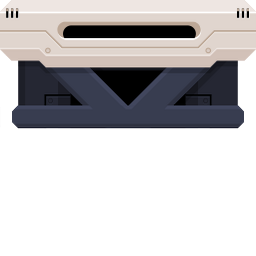
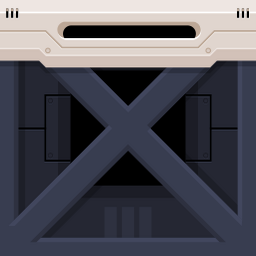
Cleaned up code and added new images to the game!

diff --git a/js/Other/NSG.js b/js/Other/NSG.js
@@ -6,7 +6,7 @@
 var GAMEHEIGHT = 600;
 var GAMEWIDTH = 900;
 var backgroundMusic;
-var level;
+var level = 1;
 var timer;
 
 // Phaser draw groups
@@ -16,6 +16,7 @@ var lightLayer;
 var stairLayer;
 var foreground;
 var exitLayer;
+var TILEBACKGROUND;
 
 // Tile Info
 var TileSizeX;
@@ -66,10 +67,12 @@ function preload() {
     game.load.atlasXML('player', ASSETPATH + 'Player/playerSpriteSheet.png', ASSETPATH + 'Player/playerSpriteSheet.xml');
     game.load.image('enemy', ASSETPATH + 'TestImages/enemy.png');
     // Images
-    game.load.image('floor', ASSETPATH + 'TestImages/floor.png');
+    game.load.image('background', ASSETPATH + 'Background/BGTile.png');
+    game.load.image('floor', ASSETPATH + 'Background/Floor.png');
     game.load.image('light', ASSETPATH + 'TestImages/light.png');
-    game.load.image('stairs', ASSETPATH + 'TestImages/stairs.png');
-    game.load.image('exit', ASSETPATH + 'TestImages/exit.png');
+    game.load.image('stairs', ASSETPATH + 'Background/Ladder.png');
+    game.load.image('exit', ASSETPATH + 'Background/Door.png');
+    game.load.image('intel', ASSETPATH + 'Background/Intel.png');
     // Buttons
     game.load.image('leftArrow', ASSETPATH + 'Buttons/ArrowLeft.png');
     game.load.image('rightArrow', ASSETPATH + 'Buttons/ArrowRight.png');
@@ -89,6 +92,16 @@ function preload() {
         game.load.text('level' + i, 'assets/levels/lvl' + i + '.txt')
     }
     game.load.text('AITree', TREEPATH + 'aiTree.json');
+    // Init Groups
+    TILEBACKGROUND = game.add.group();
+    background = game.add.group();
+    wallLayer = game.add.group();
+    lightLayer = game.add.group();
+    stairLayer = game.add.group();
+    exitLayer = game.add.group();
+    foreground = game.add.group();
+    // Used for FPS counter
+    game.time.advancedTiming = true;
 } //preload();
 
 function create() {
@@ -96,8 +109,12 @@ function create() {
     switch(gameState)
     {
         case gameStates.MENU:
-            game.time.advancedTiming = true; // Used for FPS counter
-            background = game.add.group();
+            // Load game background!
+            var text = prepLevel();
+
+            TileSizeY = Math.round(GAMEHEIGHT/text.length);
+            TileSizeX = Math.round(GAMEWIDTH/(text[0].length));
+            loadLevel(text); // Will only load the background!
 
             buttons.push(new button("PLAY"));
             buttons.push(new button("HIGHSCORE"));
@@ -112,31 +129,17 @@ function create() {
             game.physics.arcade.gravity.y = 350;
             timer = game.time.create(false);
 
-            level = 2; // Reset level for every create!
-            var text = game.cache.getText('level' + level).split('\n'); // Stores it as an array
-            for(i = 0; i < text.length; i++) {
-                text[i] = text[i].replace(/\n|\r/g, ""); // Cleans up Line breaks
-            }
-
-            TileSizeY = Math.round(GAMEHEIGHT/text.length);
-            TileSizeX = Math.round(GAMEWIDTH/(text[0].length));
-
-            wallLayer = game.add.group();
-            lightLayer = game.add.group();
-            stairLayer = game.add.group();
-            exitLayer = game.add.group();
-            foreground = game.add.group();
-
             playerDied = new Signal();
-
             newLevel = new Signal();
-            newLevel.addSignal(nextLevel)
-
             getIntel = new Signal();
+
+            newLevel.addSignal(nextLevel)
             getIntel.addSignal (function() {
                 exit = new Exit(player.origX, player.origY);
             })
 
+            level = 1; // Reset level for every create!
+            var text = prepLevel();
             loadLevel(text);
 
             backgroundMusic = new sound('background1'); // Background music, open to update
@@ -186,56 +189,65 @@ function loadLevel(text) {
             // Initialise based on character in txt file
             var x = (j*TileSizeX); // X based on position in txt file
             var y = (i*TileSizeY); // Y based on position in txt file
-            switch (text[i].charAt(j)) {
-                // Optimise the below: Maybe merge into a function (Reads file and returns x&y position)
-                case "P":
-                    player = new Player(x, y);
-                    break;
-
-                case "G":
-                    enemies.push(new Enemy((j*TileSizeX), (i*TileSizeY))); // Add new to Array
-                    break;
-
-                case "F":
-                    new Floor(x, y); // Add new to Array
-                    break;
-
-                case "W":
-                    new Wall(x, y); // Add new to Array
-                    break;
-
-                case "S":
-                    new Stair(x, y); // Add new to Array
-                    break;
-
-                case "L":
-                    new Light(x, y); // Add new to Array
-                    break;
-
-                case "X":
-                    enemies.push(new Enemy(x, y)); // Add new to Array
-                    new Light(x, y); // Add new to Array
-                    break;
-
-                case "Y":
-                    player = new Player(x, y);
-                    new Stair(x, y); // Add new to Array
-                    break;
-
-                case "Z":
-                    player = new Player(x, y);
-                    new Light(x, y); // Add new to Array
-                    break;
-
-                case "I":
-                    intel = new Intel(x, y);
-                    break;
-
-                case "E":
-                    exit = new Exit(x, y);
-                    break;
+            // Designed so will only load background when in MENU state
+            if (gameState === gameStates.MENU) {
+                new BGTile(x, y);
+            }
+            else {
+                addObject(text[i].charAt(j), x, y);
             }
         }
+    }
+}
+
+function addObject (char, x, y) {
+    switch (char) {
+        case "P":
+            player = new Player(x, y);
+            break;
+
+        case "G":
+            enemies.push(new Enemy(x, y)); // Add new to Array
+            break;
+
+        case "F":
+            new Floor(x, y); // Add new to Array
+            break;
+
+        case "W":
+            new Wall(x, y); // Add new to Array
+            break;
+
+        case "S":
+            new Stair(x, y); // Add new to Array
+            break;
+
+        case "L":
+            new Light(x, y); // Add new to Array
+            break;
+
+        case "X":
+            enemies.push(new Enemy(x, y)); // Add new to Array
+            new Light(x, y); // Add new to Array
+            break;
+
+        case "Y":
+            player = new Player(x, y);
+            new Stair(x, y); // Add new to Array
+            break;
+
+        case "Z":
+            player = new Player(x, y);
+            new Light(x, y); // Add new to Array
+            break;
+
+        case "I":
+            intel = new Intel(x, y);
+            break;
+
+        case "E":
+            exit = new Exit(x, y);
+            break;
     }
 }
 
@@ -299,10 +311,7 @@ function nextLevel() {
     // Load next level
     level++;
     if (level < 16 ) {
-        var text = game.cache.getText('level' + level).split('\n'); // Stores it as an array
-        for(i = 0; i < text.length; i++) {
-            text[i] = text[i].replace(/\n|\r/g, ""); // Cleans up Line breaks
-        }
+        var text = prepLevel();
         loadLevel(text);
     }
     else {
@@ -317,4 +326,12 @@ function gameComplete() {
 
     gameState = gameStates.SCORE;
     create();
+}
+
+function prepLevel() {
+    var txt = game.cache.getText('level' + level).split('\n'); // Stores it as an array
+    for(i = 0; i < txt.length; i++) {
+        txt[i] = txt[i].replace(/\n|\r/g, ""); // Cleans up Line breaks
+    }
+    return txt;
 }

diff --git a/js/Player.js b/js/Player.js
@@ -85,7 +85,7 @@ function Player(x, y) {
 
         if (game.physics.arcade.collide(player.playerSprite, background)) {
             if (this.upKey) {
-                this.playerSprite.body.velocity.y = -this.speed; // Jump up
+                this.playerSprite.body.velocity.y = -(this.speed+50); // Jump up
                 this.stopAnimations();
                 this.jumpAnimation.play();
             }
@@ -95,6 +95,7 @@ function Player(x, y) {
             if (!this.walkAnimation.isPlaying && !this.jumpAnimation.isPlaying) {
                 if (this.playerSprite.width > 0) { // Flip image vertically (Face Left)
                     this.playerSprite.scale.x *= -1;
+                    this.playerSprite.x -= this.playerSprite.width; // Prevents position from changing after flip
                 }
                 this.stopAnimations();
                 this.walkAnimation.play();
@@ -105,6 +106,7 @@ function Player(x, y) {
             if (!this.walkAnimation.isPlaying && !this.jumpAnimation.isPlaying) {
                 if (this.playerSprite.width < 0) { // Flip image vertically (Face Right)
                     this.playerSprite.scale.x *= -1;
+                    this.playerSprite.x -= this.playerSprite.width; // Prevents position from changing after flip
                 }
                 this.stopAnimations();
                 this.walkAnimation.play();

diff --git a/index.html b/index.html
@@ -12,6 +12,7 @@
     <script src="js/Menu/Button.js"></script>
     <script src="js/AI/Enemy.js"></script>
     <script src="js/AI/BehaviourTree.js"></script>
+    <script src="js/BackgroundObjects/BackgroundTile.js"></script>
     <script src="js/BackgroundObjects/Floor.js"></script>
     <script src="js/BackgroundObjects/Wall.js"></script>
     <script src="js/BackgroundObjects/Stairs.js"></script>

diff --git a/js/BackgroundObjects/Intel.js b/js/BackgroundObjects/Intel.js
@@ -1,6 +1,6 @@
 
 function Intel(x, y) {
-    this.intelSprite = game.add.sprite(x, y, 'floor');
+    this.intelSprite = game.add.sprite(x, y, 'intel');
     this.intelSprite.width = TileSizeX;
     this.intelSprite.height = TileSizeY;
 

diff --git a/js/BackgroundObjects/BackgroundTile.js b/js/BackgroundObjects/BackgroundTile.js
@@ -1,0 +1,7 @@
+
+function BGTile(x, y) {
+    this.tileSprite = game.add.sprite(x, y, 'background');
+    this.tileSprite.width = TileSizeX;
+    this.tileSprite.height = TileSizeY;
+    TILEBACKGROUND.add(this.tileSprite);
+}
